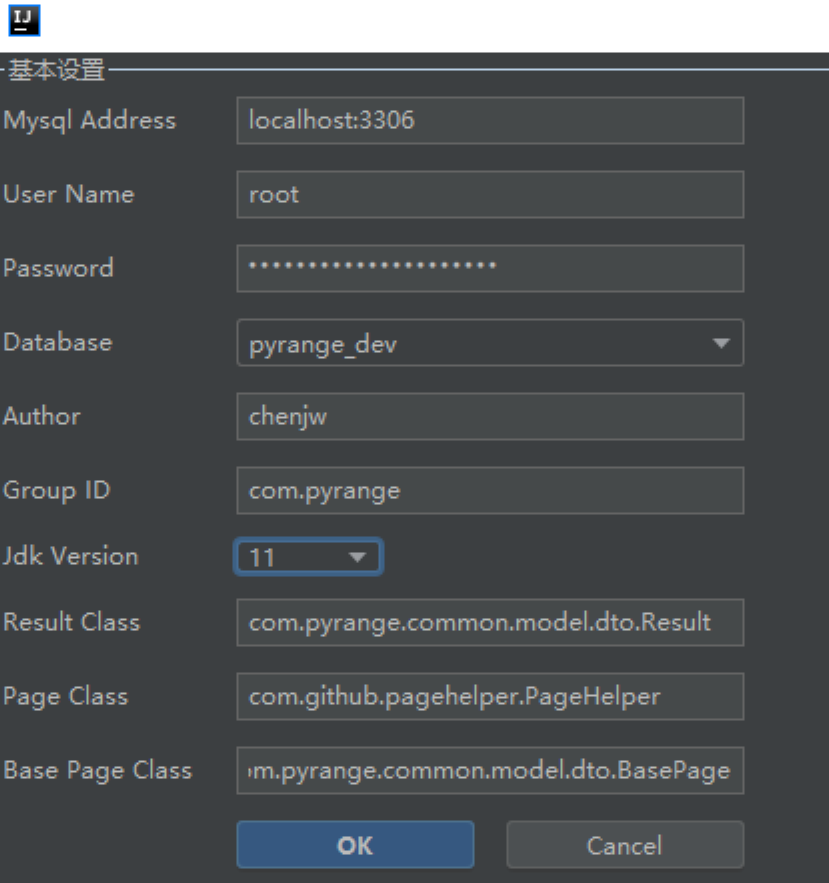
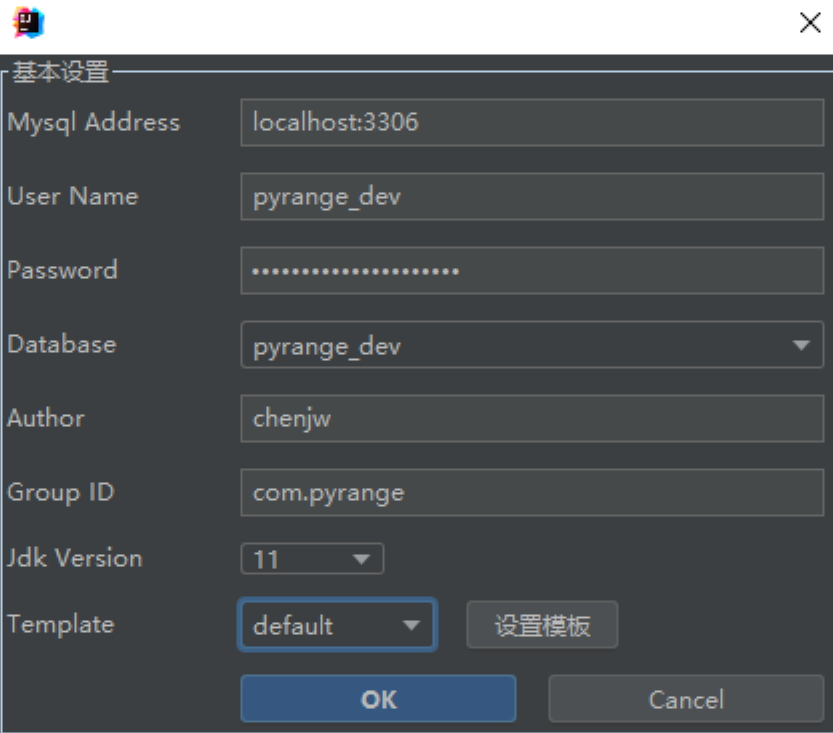
代码文档编写

diff --git a/README.md b/README.md
@@ -5,8 +5,16 @@
 </p>
 
 # Awesome Pyrange, Awesome Code
-# 一个让你起飞的代码自动生成工具
-一键生成 Java Controller, Service, Model, Mapper, Mock 以及 Vue 前端代码
+Awesome Pyrange(AP) is a code generator for Java & Web developer. It can help you generate code that includes controller, service, mapper, model, even test case and Vue code.
+It will introspect a database table (or many tables) and will generate artifacts that can be used to access the table(s).
+This lessens the initial nuisance of setting up objects and configuration files to interact with database tables.
+AP seeks to make a major impact on the large percentage of database operations that are simple CRUD (Create, Retrieve, Update, Delete).
+
+Awesome Pyrange(AP) 是一个有点厉害的代码自动生成工具, 它可以帮助你生成 controller, service, mapper, model, 甚至包括 Vue 前端 和简单的测试用例.
+AP 希望帮助开发减少重复, 麻烦, 无意义的工作, 帮助开发者将时间利用在更有价值地方.
+
+# 使用方法
+参考 [tutorial.md](tutorial.md)
 
 # 工具编译环境要求
 jdk: 11  
@@ -16,8 +24,11 @@ idea: 2021.3.3
 Gradle -> Tasks -> intellij -> buildPlugin
 
 # 调试方法
-Gradle -> Tasks ![](src/main/resources/pyrange-logo.png)-> intellij -> runIdeForUiTests  
+Gradle -> Tasks -> intellij -> runIdeForUiTests  
 使用 debug 模式运行
 
 # 插件试用 Idea 版本
 2020.1.2 -> 2022.2.1
+
+# Others
+插件地址：https://plugins.jetbrains.com/plugin/20873-awesome-pyrange

diff --git a/tutorial.md b/tutorial.md
@@ -1,0 +1,25 @@
+# 使用教程
+本工具通过数据库表字段名, 注释等信息生成增删改查基本代码, 需要配置数据库等信息
+
+## 首先点击【基本设置】, 完成基本配置
+![](src/main/resources/images/tutorial/tutorial_1.png)
+
+此处配置开发环境数据库, 开发者名字, JDK 版本, 默认模板集等.
+![](src/main/resources/images/tutorial/tutorial_2.png)
+
+## 配置模板
+不同技术环境代码风格也不一样, 使用者可以设置自己的专有模板
+![](src/main/resources/images/tutorial/tutorial_3.png)
+可以点击相应代码按钮, 修改模板内容, 语法参考 [FreeMarker](https://freemarker.apache.org/)
+
+
+# 常见问题
+1. 修改模板后, 因语法错误, 导致工具报错  
+答: 参考错误信息, 修改模板, 或简单重置模板配置即可
+
+3. 生成代码后, 新增字段怎么同步  
+答: 可以点击工具首页, 快速查看相应代码, Ctrl CV; 如果只是同步 model, 可以覆盖现有代码, 但是 Controller, Service 之类包含业务代码的不建议这么操作
+
+## 其它
+参数配置表后续更新
+
